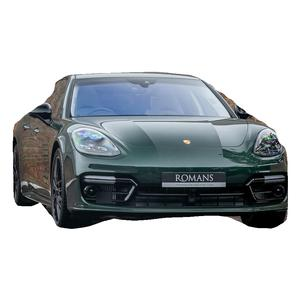
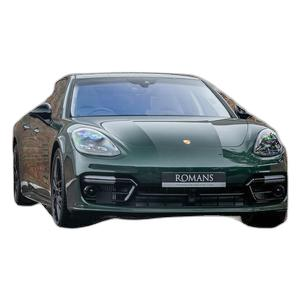
added background remover to get more accurate inference results - removed background of test images - added requirements

diff --git a/testing/load_and_prepare_images.py b/testing/load_and_prepare_images.py
@@ -1,0 +1,46 @@
+import io
+import os
+from PIL import Image
+from rembg import remove
+from PIL.Image import Image as PILImage
+
+
+def replace_background(im: bytes | PILImage, post_process_mask=False) -> PILImage:
+    if not isinstance(im, PILImage):
+        im = Image.open(io.BytesIO(im))
+
+    im = remove(im, post_process_mask=post_process_mask)
+
+    new_im = Image.new('RGBA', im.size, 'WHITE')
+    new_im.paste(im, mask=im)
+
+    bio = io.BytesIO()
+    new_im.save(bio, format='PNG')
+    im_bytes = bio.getvalue()
+    image = Image.open(io.BytesIO(im_bytes))
+    image = image.convert('RGB')
+
+    return image
+
+
+def resize_image(image, size):
+    return image.resize(size)
+
+
+def load_and_remove_bg(path, size):
+    image = Image.open(path)
+    image = resize_image(image, size)
+    image = replace_background(image)
+
+    return image
+
+
+def remove_bg_from_all_images():
+    for image in os.listdir('test_pic'):
+        print("Removing background from", image)
+        img = load_and_remove_bg(f"test_pic/{image}", (300, 300))
+        img.save(f"test_pic/{image}")
+
+
+if __name__ == '__main__':
+    remove_bg_from_all_images()
